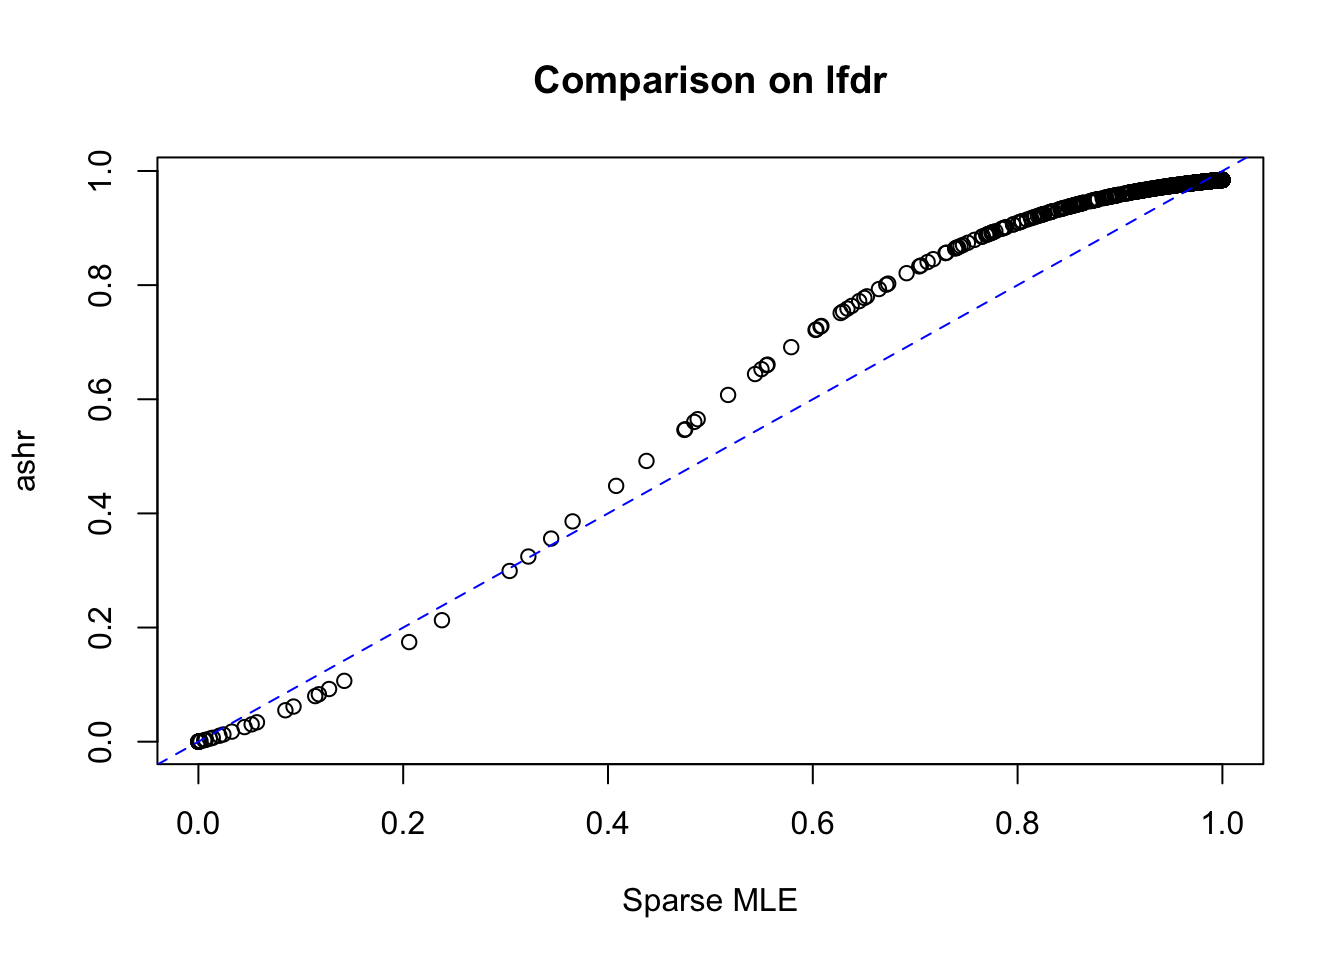
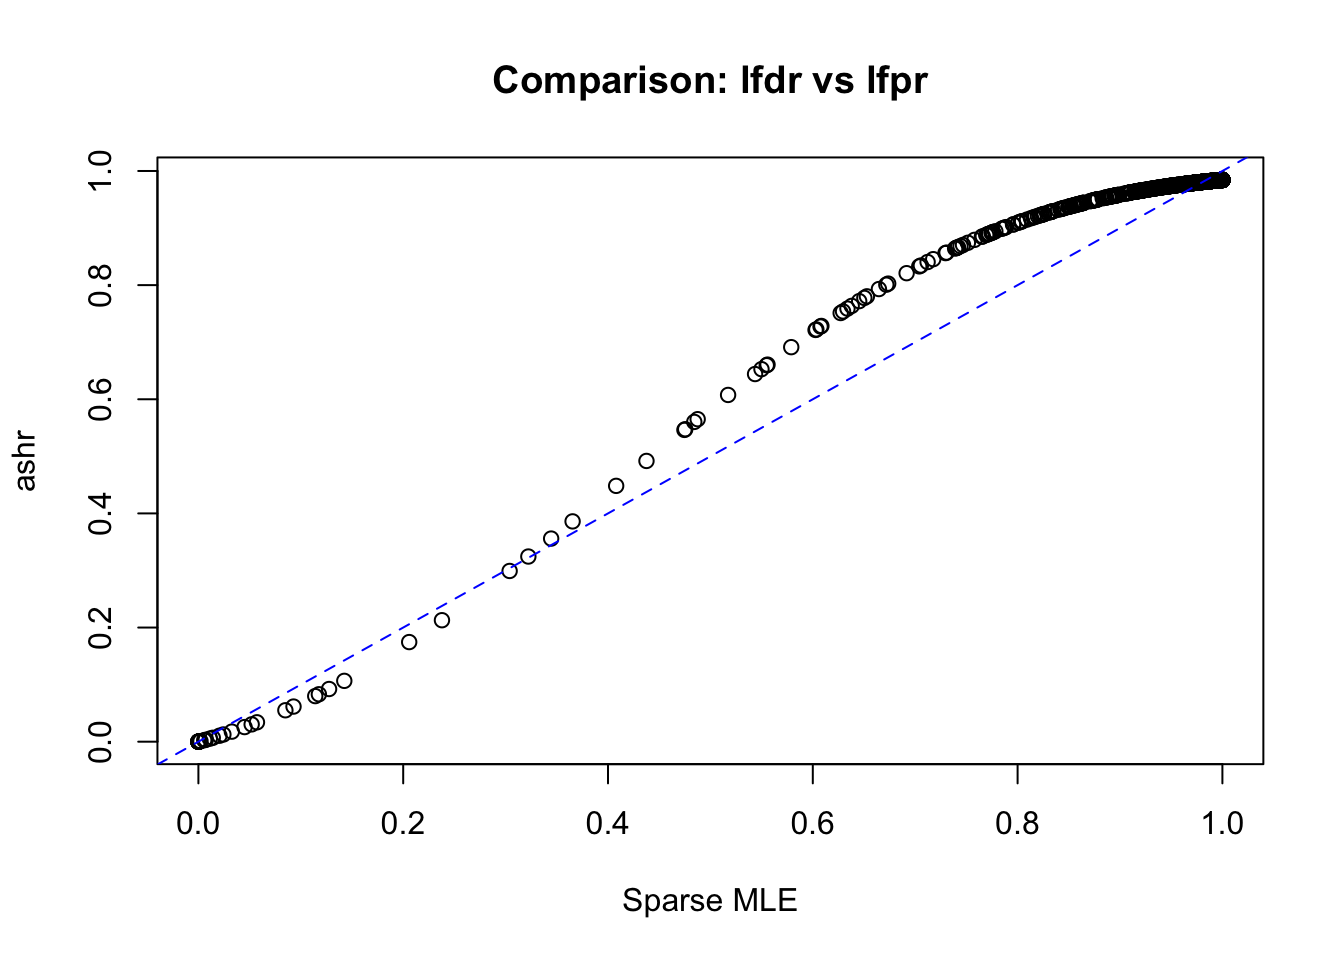
Build site.

Changed region(s): [[0.3438, 0.0625, 0.6875, 0.125]]

diff --git a/docs/sparsemle.html b/docs/sparsemle.html
@@ -171,7 +171,7 @@ $(document).ready(function () {
 </style>
 <script>
 $(document).ready(function () {
-  window.initializeCodeFolding("show" === "show");
+  window.initializeCodeFolding("hide" === "show");
 });
 </script>
 
@@ -332,7 +332,7 @@ div.section {
 </div>
 
 
-<p><strong>Last updated:</strong> 2019-01-16</p>
+<p><strong>Last updated:</strong> 2019-01-17</p>
 <strong>workflowr checks:</strong> <small>(Click a bullet for more information)</small>
 <ul>
 <li>
@@ -361,7 +361,7 @@ div.section {
 </li>
 <li>
 <details>
-<p><summary> <strong style="color:blue;">✔</strong> <strong>Repository version:</strong> <a href="https://github.com/LSun/OracleBayesMT/tree/cfe58a28e5bd3766c87113944507518c9de01141" target="_blank">cfe58a2</a> </summary></p>
+<p><summary> <strong style="color:blue;">✔</strong> <strong>Repository version:</strong> <a href="https://github.com/LSun/OracleBayesMT/tree/f5f7fee6324e5cbc573daffc3d9f26a56a6e4513" target="_blank">f5f7fee</a> </summary></p>
 Great! You are using Git for version control. Tracking code development and connecting the code version to the results is critical for reproducibility. The version displayed above was the version of the Git repository at the time these results were generated. <br><br> Note that you need to be careful to ensure that all relevant files for the analysis have been committed to Git prior to generating the results (you can use <code>wflow_publish</code> or <code>wflow_git_commit</code>). workflowr only checks the R Markdown file, but you know if there are other scripts or data files that it depends on. Below is the status of the Git repository when the results were generated:
 <pre><code>
 Ignored files:
@@ -404,6 +404,40 @@ Message
 rmd
 </td>
 <td style="text-align:left;">
+<a href="https://github.com/LSun/OracleBayesMT/blob/f5f7fee6324e5cbc573daffc3d9f26a56a6e4513/analysis/sparsemle.rmd" target="_blank">f5f7fee</a>
+</td>
+<td style="text-align:left;">
+Lei Sun
+</td>
+<td style="text-align:left;">
+2019-01-17
+</td>
+<td style="text-align:left;">
+wflow_publish(“analysis/sparsemle.rmd”)
+</td>
+</tr>
+<tr>
+<td style="text-align:left;">
+html
+</td>
+<td style="text-align:left;">
+<a href="https://cdn.rawgit.com/LSun/OracleBayesMT/8ffd3cca3224924e16b096ea2f38b05e99d9db96/docs/sparsemle.html" target="_blank">8ffd3cc</a>
+</td>
+<td style="text-align:left;">
+Lei Sun
+</td>
+<td style="text-align:left;">
+2019-01-16
+</td>
+<td style="text-align:left;">
+Build site.
+</td>
+</tr>
+<tr>
+<td style="text-align:left;">
+rmd
+</td>
+<td style="text-align:left;">
 <a href="https://github.com/LSun/OracleBayesMT/blob/cfe58a28e5bd3766c87113944507518c9de01141/analysis/sparsemle.rmd" target="_blank">cfe58a2</a>
 </td>
 <td style="text-align:left;">
@@ -423,13 +457,27 @@ wflow_publish(“sparsemle.rmd”)
 <hr />
 <div id="introduction" class="section level2">
 <h2>Introduction</h2>
-<p>A quick simulation to compare PMcC’s <code>sparsemle</code> and <code>ashr</code>. The observations are signals plus Gaussian noise, and the signals are 90% zero.</p>
+<p>This is a quick simulation to compare PMcC’s <code>sparsemle</code> and Matthew’s <code>ashr</code>. The observations are signals plus Gaussian noise, and the signals are 90% zero. <span class="math display">\[
+\begin{aligned}
+z_j &amp;\overset{\text{iid}}{\sim} N(\theta_j, 1)\\
+\theta_j &amp;\overset{\text{iid}}{\sim} g = 0.9\delta_0 + 0.1 g_1
+\end{aligned}
+\]</span></p>
+<p>The quantities we are comparing for each <span class="math inline">\(j = 1, \ldots, p\)</span> are <code>lfpr</code> from <code>sparsemle</code> which is computed as <span class="math display">\[
+\begin{aligned}
+\text{lfpr}(z_j)=\frac{1-\rho}{1-\rho+\rho\zeta(z_j, d)},
+\end{aligned}
+\]</span> and <code>lfdr</code> from <code>ashr</code> which is <span class="math display">\[
+\begin{aligned}
+\text{lfdr}(z_j)=\text{Pr}(\theta_j = 0|z_j, \hat g)
+\end{aligned}
+\]</span></p>
 <pre class="r"><code>source(&quot;http://www.stat.uchicago.edu/~pmcc/courses/sparsity.R&quot;)
 library(ashr)</code></pre>
-<p><img src="figure/sparsemle.rmd/unnamed-chunk-1-1.png" width="672" style="display: block; margin: auto;" /></p>
 </div>
 <div id="unimodal-signals" class="section level2">
 <h2>Unimodal signals</h2>
+<p>Here <span class="math inline">\(g_1 = N(0, 3^2)\)</span>.</p>
 <pre class="r"><code>set.seed(777)
 theta &lt;- sample(c(rep(0, 900), rnorm(100, 0, 3)))
 z &lt;- theta + rnorm(1000)
@@ -438,12 +486,75 @@ fit.ashr &lt;- ashr::ash(z, 1)
 lfpr &lt;- (1 - fit.sparsemle$rho) / (1 - fit.sparsemle$rho + fit.sparsemle$rho * zeta_ip(z))
 hist(theta, xlab = expression(theta))</code></pre>
 <p><img src="figure/sparsemle.rmd/unnamed-chunk-2-1.png" width="672" style="display: block; margin: auto;" /></p>
-<pre class="r"><code>plot(lfpr, ashr::get_lfdr(fit.ashr), xlab = &quot;Sparse MLE&quot;, ylab = &quot;ashr&quot;, main = &quot;Comparison on lfdr&quot;)
+<details>
+<summary><em>Expand here to see past versions of unnamed-chunk-2-1.png:</em></summary>
+<table style = "border-collapse:separate; border-spacing:5px;">
+<thead>
+<tr>
+<th style="text-align:left;">
+Version
+</th>
+<th style="text-align:left;">
+Author
+</th>
+<th style="text-align:left;">
+Date
+</th>
+</tr>
+</thead>
+<tbody>
+<tr>
+<td style="text-align:left;">
+<a href="https://github.com/LSun/OracleBayesMT/blob/8ffd3cca3224924e16b096ea2f38b05e99d9db96/docs/figure/sparsemle.rmd/unnamed-chunk-2-1.png" target="_blank">8ffd3cc</a>
+</td>
+<td style="text-align:left;">
+Lei Sun
+</td>
+<td style="text-align:left;">
+2019-01-16
+</td>
+</tr>
+</tbody>
+</table>
+</details>
+<pre class="r"><code>plot(lfpr, ashr::get_lfdr(fit.ashr), xlab = &quot;Sparse MLE&quot;, ylab = &quot;ashr&quot;, main = &quot;Comparison: lfdr vs lfpr&quot;)
 abline(0, 1, col = &quot;blue&quot;, lty = 2)</code></pre>
 <p><img src="figure/sparsemle.rmd/unnamed-chunk-2-2.png" width="672" style="display: block; margin: auto;" /></p>
+<details>
+<summary><em>Expand here to see past versions of unnamed-chunk-2-2.png:</em></summary>
+<table style = "border-collapse:separate; border-spacing:5px;">
+<thead>
+<tr>
+<th style="text-align:left;">
+Version
+</th>
+<th style="text-align:left;">
+Author
+</th>
+<th style="text-align:left;">
+Date
+</th>
+</tr>
+</thead>
+<tbody>
+<tr>
+<td style="text-align:left;">
+<a href="https://github.com/LSun/OracleBayesMT/blob/8ffd3cca3224924e16b096ea2f38b05e99d9db96/docs/figure/sparsemle.rmd/unnamed-chunk-2-2.png" target="_blank">8ffd3cc</a>
+</td>
+<td style="text-align:left;">
+Lei Sun
+</td>
+<td style="text-align:left;">
+2019-01-16
+</td>
+</tr>
+</tbody>
+</table>
+</details>
 </div>
 <div id="point-mass-signals" class="section level2">
 <h2>Point-mass signals</h2>
+<p>Here <span class="math inline">\(g_1 = \delta_3\)</span>, a point mass at <span class="math inline">\(3\)</span>.</p>
 <pre class="r"><code>set.seed(777)
 theta &lt;- sample(c(rep(0, 900), rep(3, 100)))
 z &lt;- theta + rnorm(1000)
@@ -452,9 +563,108 @@ fit.ashr &lt;- ashr::ash(z, 1)
 lfpr &lt;- (1 - fit.sparsemle$rho) / (1 - fit.sparsemle$rho + fit.sparsemle$rho * zeta_ip(z))
 hist(theta, xlab = expression(theta))</code></pre>
 <p><img src="figure/sparsemle.rmd/unnamed-chunk-3-1.png" width="672" style="display: block; margin: auto;" /></p>
-<pre class="r"><code>plot(lfpr, ashr::get_lfdr(fit.ashr), xlab = &quot;Sparse MLE&quot;, ylab = &quot;ashr&quot;, main = &quot;Comparison on lfdr&quot;)
+<details>
+<summary><em>Expand here to see past versions of unnamed-chunk-3-1.png:</em></summary>
+<table style = "border-collapse:separate; border-spacing:5px;">
+<thead>
+<tr>
+<th style="text-align:left;">
+Version
+</th>
+<th style="text-align:left;">
+Author
+</th>
+<th style="text-align:left;">
+Date
+</th>
+</tr>
+</thead>
+<tbody>
+<tr>
+<td style="text-align:left;">
+<a href="https://github.com/LSun/OracleBayesMT/blob/8ffd3cca3224924e16b096ea2f38b05e99d9db96/docs/figure/sparsemle.rmd/unnamed-chunk-3-1.png" target="_blank">8ffd3cc</a>
+</td>
+<td style="text-align:left;">
+Lei Sun
+</td>
+<td style="text-align:left;">
+2019-01-16
+</td>
+</tr>
+</tbody>
+</table>
+</details>
+<pre class="r"><code>plot(lfpr, ashr::get_lfdr(fit.ashr), xlab = &quot;Sparse MLE&quot;, ylab = &quot;ashr&quot;, main = &quot;Comparison: lfdr vs lfpr&quot;)
 abline(0, 1, col = &quot;blue&quot;, lty = 2)</code></pre>
 <p><img src="figure/sparsemle.rmd/unnamed-chunk-3-2.png" width="672" style="display: block; margin: auto;" /></p>
+<details>
+<summary><em>Expand here to see past versions of unnamed-chunk-3-2.png:</em></summary>
+<table style = "border-collapse:separate; border-spacing:5px;">
+<thead>
+<tr>
+<th style="text-align:left;">
+Version
+</th>
+<th style="text-align:left;">
+Author
+</th>
+<th style="text-align:left;">
+Date
+</th>
+</tr>
+</thead>
+<tbody>
+<tr>
+<td style="text-align:left;">
+<a href="https://github.com/LSun/OracleBayesMT/blob/8ffd3cca3224924e16b096ea2f38b05e99d9db96/docs/figure/sparsemle.rmd/unnamed-chunk-3-2.png" target="_blank">8ffd3cc</a>
+</td>
+<td style="text-align:left;">
+Lei Sun
+</td>
+<td style="text-align:left;">
+2019-01-16
+</td>
+</tr>
+</tbody>
+</table>
+</details>
+</div>
+<div id="no-exact-null" class="section level2">
+<h2>No exact null</h2>
+<p>We now make a small change to the setting: here <span class="math inline">\(g = 0.9N(0, 0.5^2) + 0.1g_1\)</span>, i.e., no <span class="math inline">\(\theta_j\)</span> that is exactly zero.</p>
+<div id="unimodal-signals-1" class="section level3">
+<h3>Unimodal signals</h3>
+<p><span class="math inline">\(g_1 = N(0, 3^2)\)</span></p>
+<pre class="r"><code>set.seed(777)
+theta &lt;- sample(c(rnorm(900, 0, 0.5), rnorm(100, 0, 3)))
+z &lt;- theta + rnorm(1000)
+fit.sparsemle &lt;- sparsemle(z)
+fit.ashr &lt;- ashr::ash(z, 1)
+lfpr &lt;- (1 - fit.sparsemle$rho) / (1 - fit.sparsemle$rho + fit.sparsemle$rho * zeta_ip(z))
+hist(theta, xlab = expression(theta))</code></pre>
+<p><img src="figure/sparsemle.rmd/unnamed-chunk-4-1.png" width="672" style="display: block; margin: auto;" /></p>
+<pre class="r"><code>plot(lfpr, ashr::get_lfdr(fit.ashr), xlab = &quot;Sparse MLE&quot;, ylab = &quot;ashr&quot;, main = &quot;Comparison: lfdr vs lfpr&quot;)
+abline(0, 1, col = &quot;blue&quot;, lty = 2)</code></pre>
+<p><img src="figure/sparsemle.rmd/unnamed-chunk-4-2.png" width="672" style="display: block; margin: auto;" /></p>
+</div>
+<div id="point-mass-signals-1" class="section level3">
+<h3>Point-mass signals</h3>
+<pre class="r"><code>set.seed(777)
+theta &lt;- sample(c(rnorm(900, 0, 0.5), rep(3, 100)))
+z &lt;- theta + rnorm(1000)
+fit.sparsemle &lt;- sparsemle(z)
+fit.ashr &lt;- ashr::ash(z, 1)
+lfpr &lt;- (1 - fit.sparsemle$rho) / (1 - fit.sparsemle$rho + fit.sparsemle$rho * zeta_ip(z))
+hist(theta, xlab = expression(theta))</code></pre>
+<p><img src="figure/sparsemle.rmd/unnamed-chunk-5-1.png" width="672" style="display: block; margin: auto;" /></p>
+<pre class="r"><code>plot(lfpr, ashr::get_lfdr(fit.ashr), xlab = &quot;Sparse MLE&quot;, ylab = &quot;ashr&quot;, main = &quot;Comparison: lfdr vs lfpr&quot;)
+abline(0, 1, col = &quot;blue&quot;, lty = 2)</code></pre>
+<p><img src="figure/sparsemle.rmd/unnamed-chunk-5-2.png" width="672" style="display: block; margin: auto;" /></p>
+</div>
+</div>
+<div id="remarks" class="section level2">
+<h2>Remarks</h2>
+<p>Generally speaking, <code>lfpr</code> from <code>sparsemle</code> is roughly comparable to <code>lfdr</code> from <code>ashr</code>, although <code>lfdr</code> from <code>ashr</code> is usually slightly less conservative than <code>lfpr</code> from <code>sparsemle</code> when both are small. Interestingly, they are most similar when we have unimodal signals and no exact nulls.</p>
 </div>
 <div id="session-information" class="section level2">
 <h2>Session information</h2>
